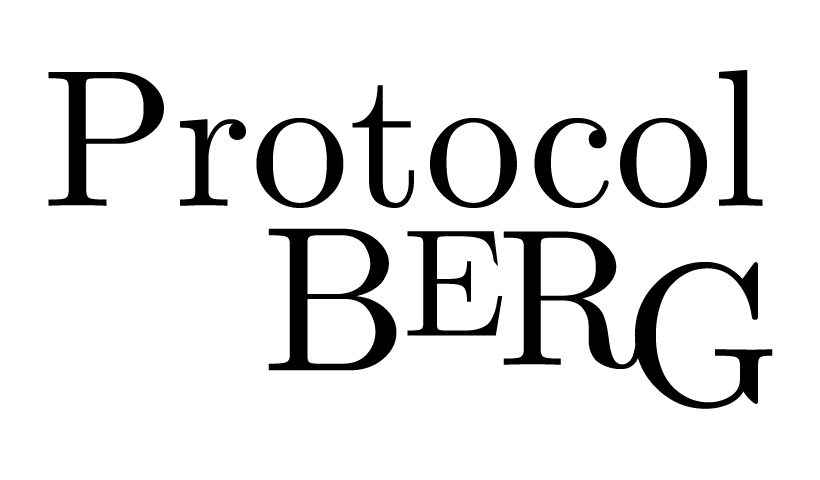
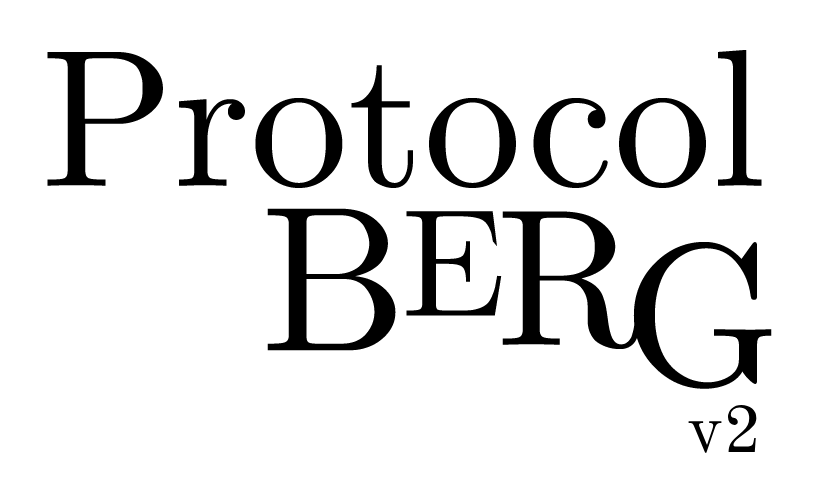
Update to PBv2 image and naming

Changed region(s): [[0.061, 0.0938, 0.9451, 0.9688], [0.061, 0.3438, 0.1524, 0.4375], [0.2134, 0.3438, 0.2744, 0.4375]]

diff --git a/src/pages/index.js b/src/pages/index.js
@@ -2,9 +2,6 @@ import * as React from "react";
 import refs from "../references";
 import { SEO } from "../components/seo";
 import { DarkModeSwitch } from "react-toggle-dark-mode";
-import speakers from "../speakers";
-import Speaker from "../components/Speaker";
-import Schedule from "../components/schedule";
 import logo from "../images/protocolBerg.png";
 
 const FootNote = ({ id, author, description, year, url, accessed }) => (
@@ -65,7 +62,7 @@ const IndexPage = () => {
           <img
             className={`w-full max-w-xs sm:w-auto h-auto ${isDarkMode ? "invert" : ""}`}
             src={logo}
-            alt="Protocol Berg V2 Logo"
+            alt="Protocol Berg v2 Logo"
           />
         </div>
         <p className="italic text-center">The decentralized protocol and infrastructure conference.</p>
@@ -85,7 +82,7 @@ const IndexPage = () => {
           Abstract
         </h2>
         <small className="mt-4">
-          Protocol Berg V2 is a two day summit providing a location specifically for protocol research, decentralized
+          Protocol Berg v2 is a two day summit providing a location specifically for protocol research, decentralized
           infrastructure, and core-developer experience. The one-day event with two stages, opportunities for technical
           workshops, and protocol community gatherings brings together protocol researchers and other stakeholders from
           different decentralized protocols. Attendance is free of charge. The event will not host any sponsors or
@@ -127,8 +124,8 @@ const IndexPage = () => {
           1. Conference
         </h2>
         <p>
-          Protocol Berg V2 is a two-day technical conference targeting an audience of protocol/system/network engineers,
-          decentralized-infrastructure administrators, researchers, and other curious minds. Protocol Berg V2 aims to
+          Protocol Berg v2 is a two-day technical conference targeting an audience of protocol/system/network engineers,
+          decentralized-infrastructure administrators, researchers, and other curious minds. Protocol Berg v2 aims to
           bring distributed technology ecosystems together to exchange concepts and technology, talk about shared open
           problems, and learn from each other.
         </p>
@@ -140,7 +137,7 @@ const IndexPage = () => {
           Tickets will be free, as in <span className="italic">free lemonade</span>. All attendees had to adhere to the
           event's <a href="/conduct">Code of Conduct</a>.
         </p>
-        <p>Protocol Berg V2 is a donation-backed, non-profit event. Therefore, there will be no sponsors.</p>
+        <p>Protocol Berg v2 is a donation-backed, non-profit event. Therefore, there will be no sponsors.</p>
         <p>
           Follow us in{" "}
           <a href="https://x.com/protocol_berg" target="_blank" rel="noreferrer">
@@ -155,7 +152,7 @@ const IndexPage = () => {
         <p>
           For last year's event, see{" "}
           <a href="https://2023.protocol.berlin" target="_blank" rel="noreferrer">
-            Protocol Berg V1
+            Protocol Berg v1
           </a>
           .
         </p>
@@ -224,7 +221,7 @@ const IndexPage = () => {
           4.1 Contact
         </h3>
         <p>
-          To connect to the Protocol Berg V2 community, join our [matrix] space: <br />
+          To connect to the Protocol Berg v2 community, join our [matrix] space: <br />
           <a href="https://matrix.to/#/%23protocol:tchncs.de" target="_blank" className="ml-12">
             &#x23;protocol:tchncs.de{" "}
           </a>
@@ -259,7 +256,7 @@ const IndexPage = () => {
           <br />
           Bank Identifier Code: <code>BELADEBEXXX</code>
           <br />
-          Subject: <code>Spende Protocol Berg V2</code>
+          Subject: <code>Spende Protocol Berg v2</code>
         </p>
         <p>
           To donate on other platforms or to get a donation receipt, please message us at{" "}
